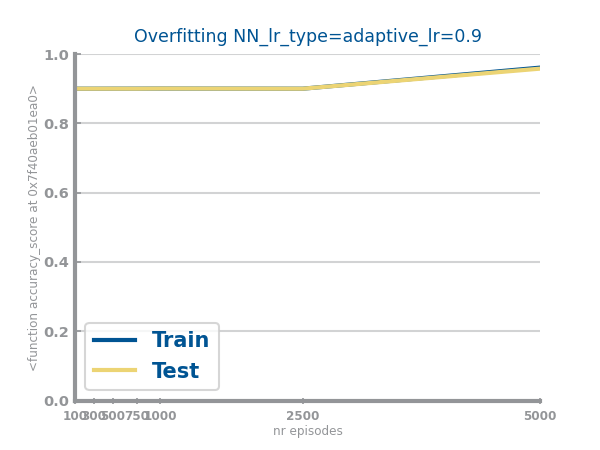
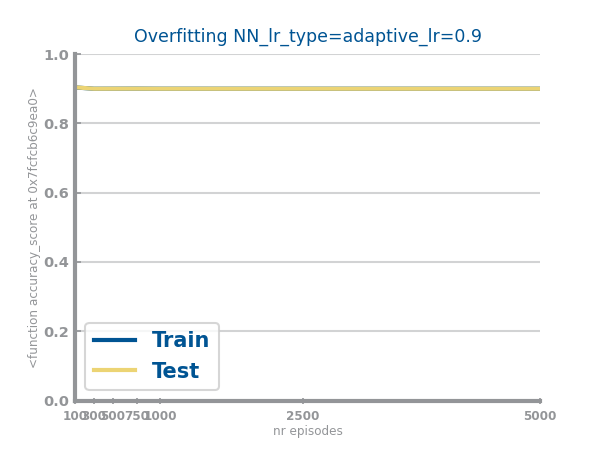
complete MLP

Changed region(s): [[0.51, 0.1244, 0.9, 0.2178], [0.03, 0.1867, 0.06, 0.84], [0.12, 0.1867, 0.15, 0.2178]]

diff --git a/Dataset2/MLP_Set2/mlp.py b/Dataset2/MLP_Set2/mlp.py
@@ -13,7 +13,7 @@ target = 'ALARM'
 filename = '../MissingValuesImputation_Set2/data/dataset2_mv_most_frequent.csv'
 
 df = read_csv(f'{filename}')
-df = df.sample(frac=0.7)
+df = df.sample(frac=1)
 
 df = df.dropna()
 
